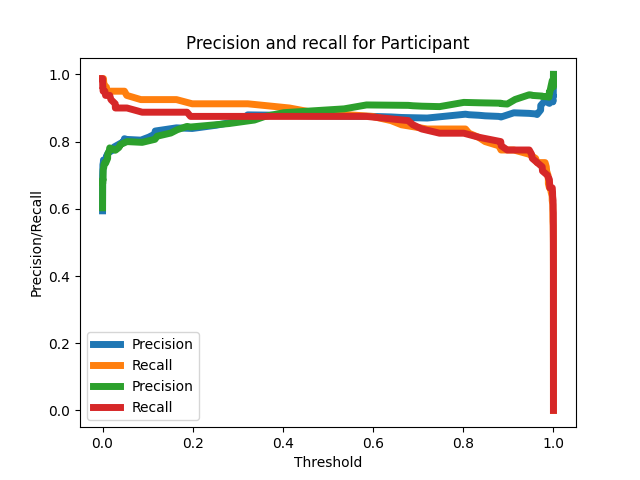
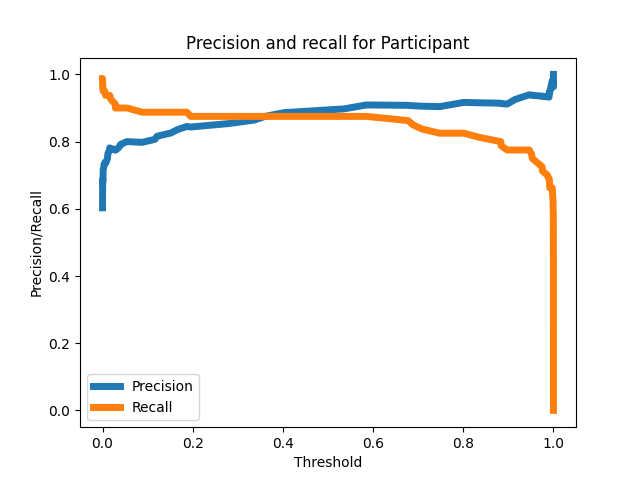
plot_part

Changed region(s): [[0.1562, 0.1562, 0.875, 0.875], [0.125, 0.6875, 0.3125, 0.8125], [0.125, 0.8438, 0.1875, 0.875]]

diff --git a/plot_pr_re_thre.py b/plot_pr_re_thre.py
@@ -12,6 +12,7 @@ def plot_coach(y_gold, y_prob):
     :param y_gold: 1D array of gold label
     :param y_prob: 1D array of predicted probability
     """
+    plt.figure()
     precision, recall, th = precision_recall_curve(y_gold, y_prob)
     plt.plot(th, precision[1:], label="Precision",linewidth=5)
     plt.plot(th, recall[1:], label="Recall",linewidth=5)
@@ -34,6 +35,7 @@ def plot_patient(y_gold, y_prob):
     :param y_gold: 1D array of gold label
     :param y_prob: 1D array of predicted probability
     """
+    plt.figure()
     y_gold = 1 - y_gold
     precision, recall, th = precision_recall_curve(y_gold, y_prob)
     plt.plot(th, precision[1:], label="Precision",linewidth=5)
